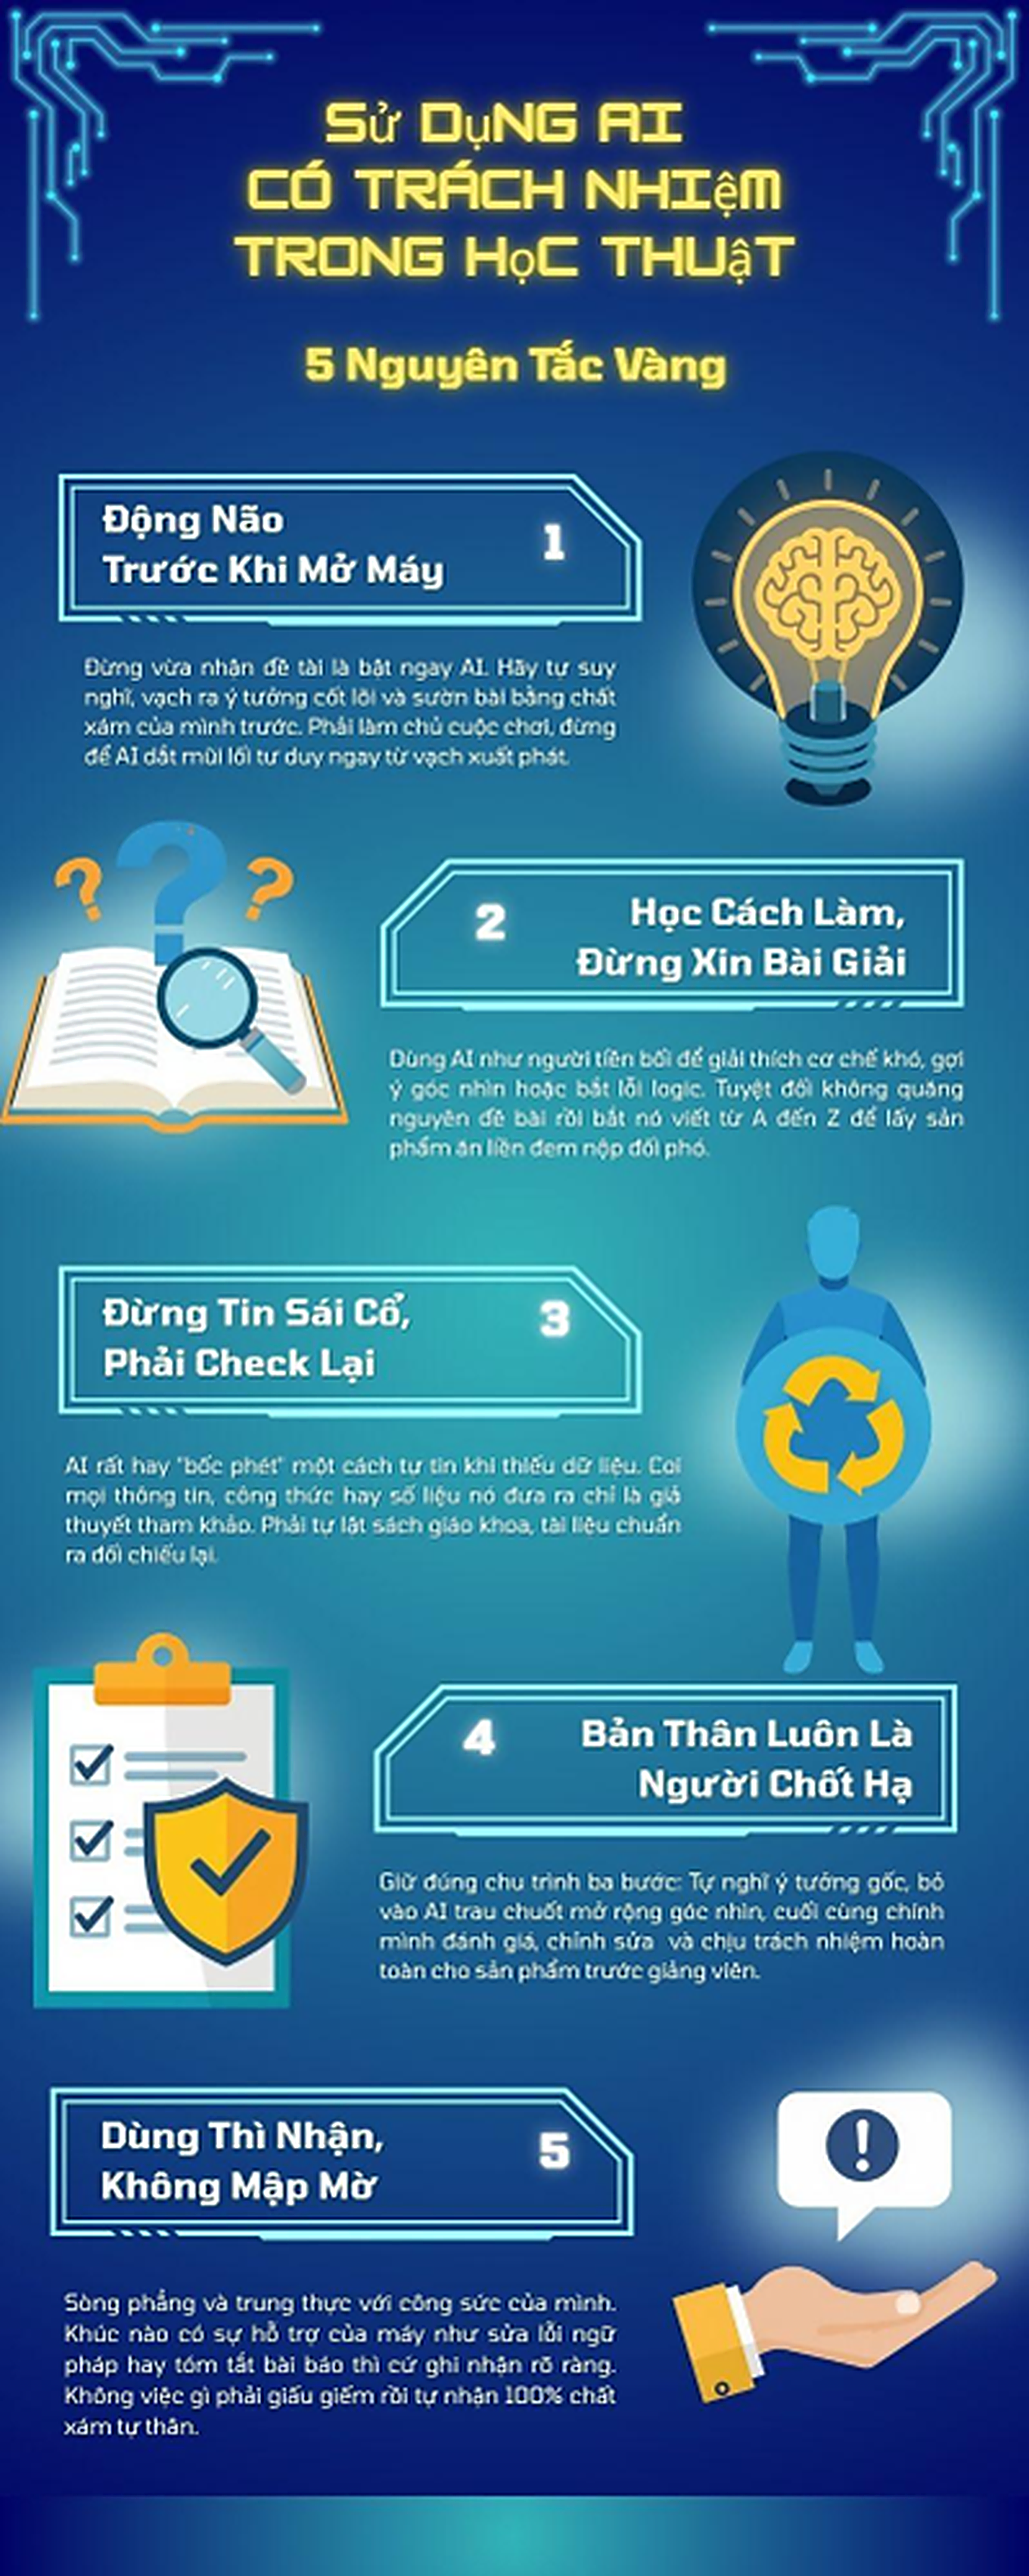
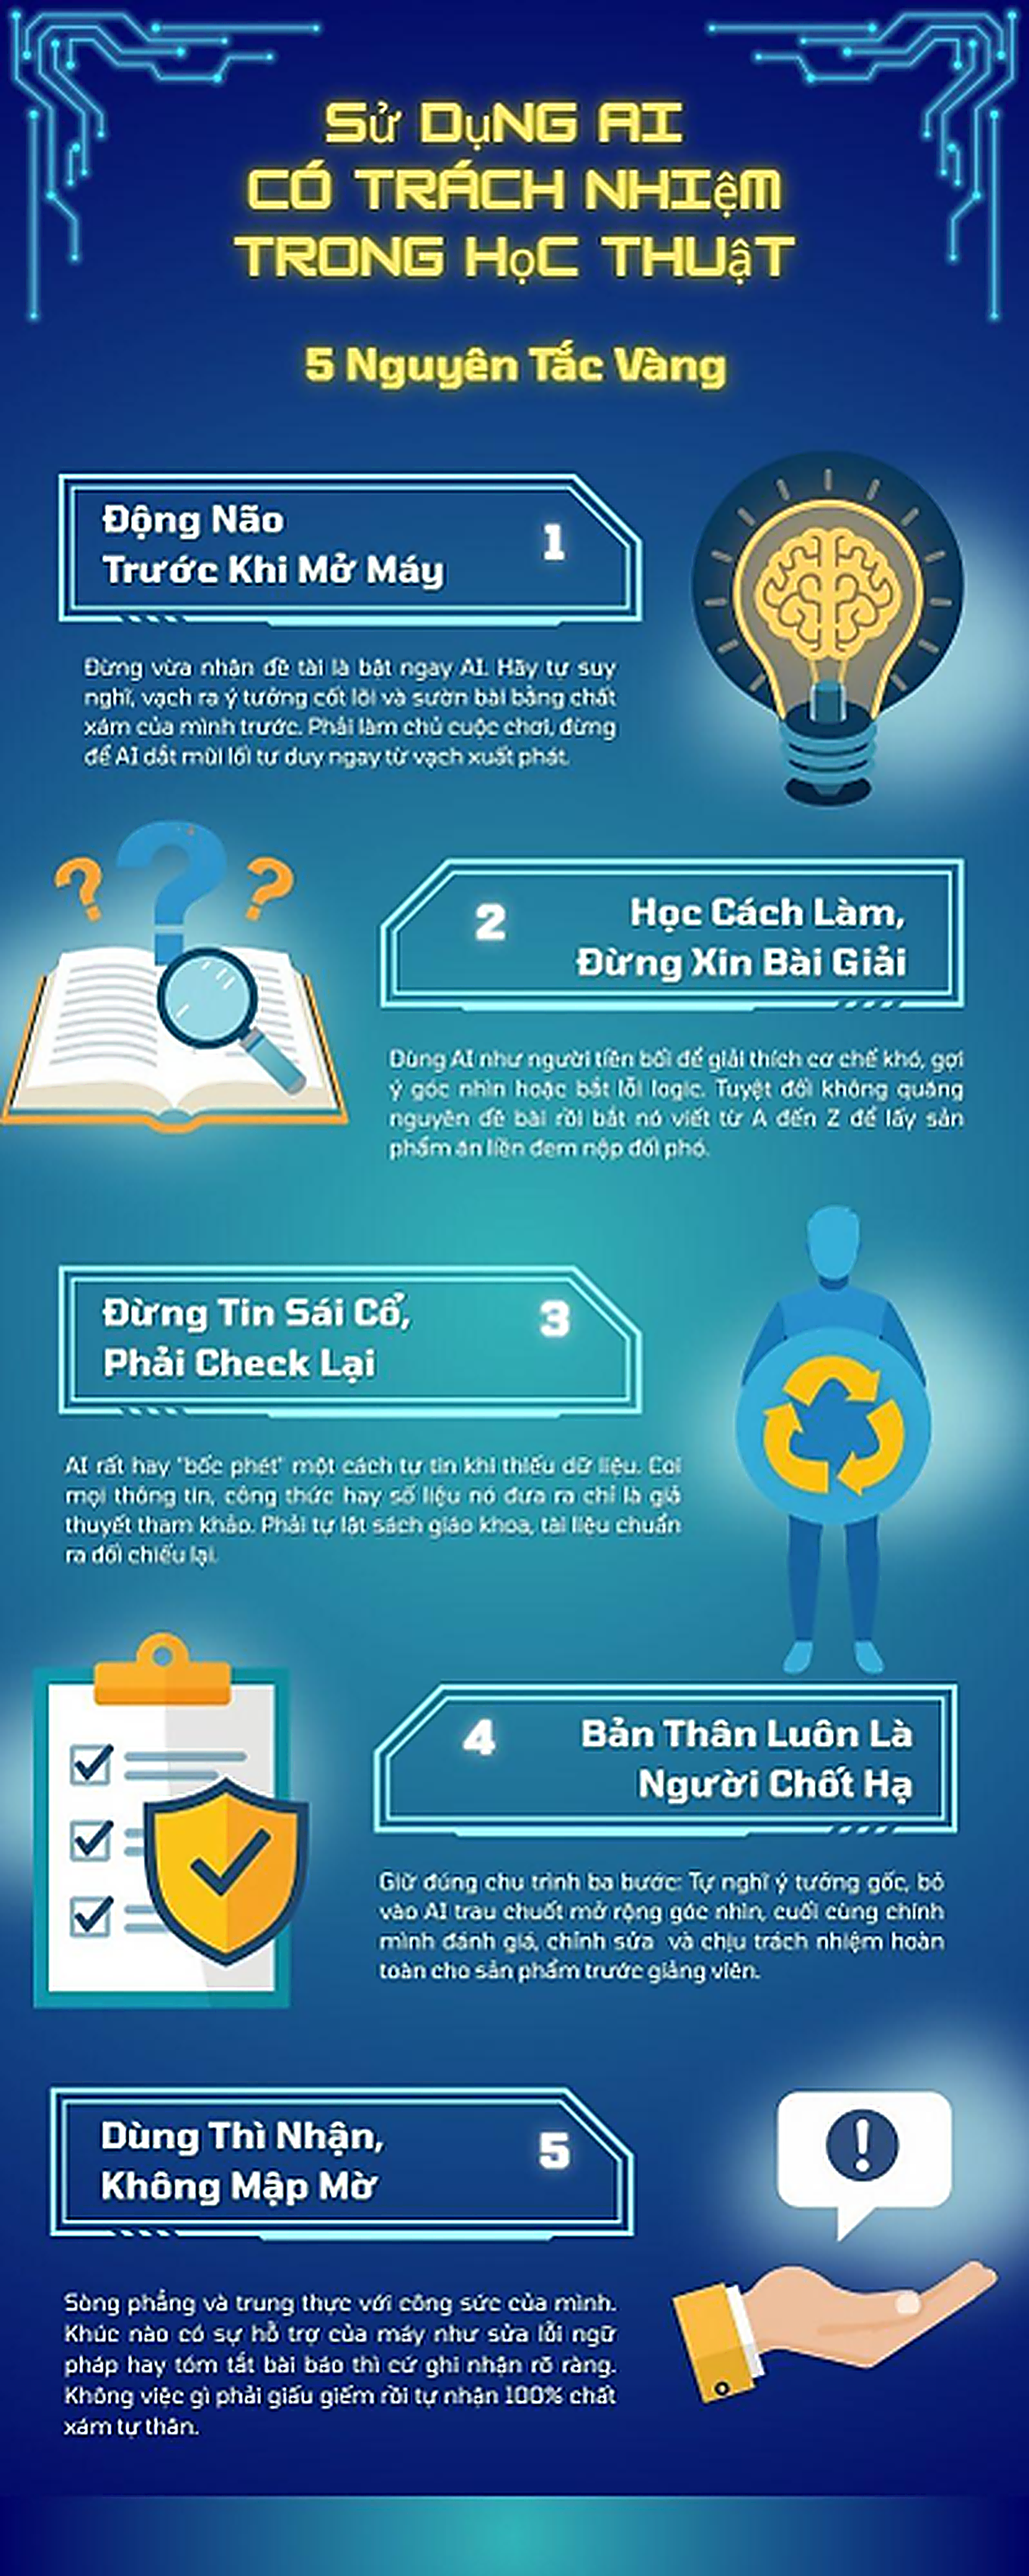
update

diff --git a/style.css b/style.css
@@ -820,6 +820,135 @@ body::before {
   font-size: 0.88rem;
 }
 
+/* Week 6 — ethics analysis */
+.ethics-pillar-grid {
+  display: grid;
+  grid-template-columns: repeat(auto-fit, minmax(240px, 1fr));
+  gap: 16px;
+  margin: 18px 0 8px;
+}
+
+.ethics-pillar-card {
+  background: rgba(255, 255, 255, 0.72);
+  border: 1px solid rgba(244, 160, 181, 0.28);
+  border-radius: var(--radius-md);
+  padding: 18px 20px;
+  box-shadow: var(--shadow-card);
+  transition: var(--transition);
+}
+
+.ethics-pillar-card:hover {
+  transform: translateY(-2px);
+  box-shadow: var(--shadow-soft);
+}
+
+.ethics-pillar-card h6 {
+  font-family: var(--font-heading);
+  font-size: 1rem;
+  color: var(--pink-deep);
+  margin-bottom: 8px;
+}
+
+.ethics-pillar-card p {
+  font-size: 0.9rem;
+  color: var(--plum);
+  line-height: 1.65;
+  margin: 0;
+}
+
+.ethics-compare {
+  display: grid;
+  grid-template-columns: 1fr 1fr;
+  gap: 14px;
+  margin: 16px 0 6px;
+}
+
+@media (max-width: 640px) {
+  .ethics-compare {
+    grid-template-columns: 1fr;
+  }
+}
+
+.ethics-compare-col {
+  border-radius: var(--radius-sm);
+  padding: 16px 18px;
+  border: 1px solid rgba(244, 160, 181, 0.25);
+}
+
+.ethics-compare-col--ok {
+  background: linear-gradient(135deg, rgba(244, 160, 181, 0.12), rgba(255, 248, 240, 0.9));
+  border-left: 4px solid var(--pink-primary);
+}
+
+.ethics-compare-col--bad {
+  background: linear-gradient(135deg, rgba(74, 44, 61, 0.06), rgba(255, 248, 240, 0.85));
+  border-left: 4px solid var(--plum);
+}
+
+.ethics-compare-col strong {
+  display: block;
+  font-family: var(--font-heading);
+  font-size: 0.95rem;
+  margin-bottom: 8px;
+  color: var(--plum);
+}
+
+.ethics-compare-col ul {
+  margin: 0 0 0 18px;
+  font-size: 0.88rem;
+  line-height: 1.65;
+  color: var(--plum);
+}
+
+.ethics-compare-col li {
+  margin-bottom: 6px;
+}
+
+.ethics-quote {
+  margin: 18px 0 4px;
+  padding: 18px 22px;
+  border-radius: var(--radius-md);
+  background: linear-gradient(120deg, rgba(244, 160, 181, 0.14), rgba(232, 213, 224, 0.35));
+  border: 1px dashed rgba(212, 117, 139, 0.45);
+  font-family: var(--font-heading);
+  font-style: italic;
+  font-size: 0.98rem;
+  line-height: 1.75;
+  color: var(--plum);
+  text-align: center;
+}
+
+.infographic-wrapper {
+  position: relative;
+  display: inline-block;
+  max-width: 100%;
+  border-radius: var(--radius-md);
+  overflow: hidden;
+  border: 4px solid var(--white);
+  box-shadow: var(--shadow-soft);
+  transition: var(--transition);
+}
+
+.infographic-wrapper:hover {
+  box-shadow: var(--shadow-hover);
+  transform: translateY(-2px);
+}
+
+.infographic-wrapper .infographic-image {
+  margin: 0;
+  border: none;
+  border-radius: 0;
+  box-shadow: none;
+  max-width: 760px;
+}
+
+.infographic-overlay {
+  position: absolute;
+  inset: 0;
+  background: linear-gradient(180deg, rgba(244, 160, 181, 0.05) 0%, rgba(74, 44, 61, 0.12) 100%);
+  pointer-events: none;
+}
+
 .flowchart-figure {
   margin: 14px 0 0;
 }

diff --git a/projects.html b/projects.html
@@ -1302,9 +1302,77 @@
         </div>
         <div class="project-card-body">
 
-          <!-- Topic 1: Bộ nguyên tắc cá nhân -->
+          <!-- Topic 1: Phân tích đạo đức (LMS mục 3) -->
           <div class="project-topic">
             <div class="topic-number">1</div>
+            <div class="topic-content">
+              <h4>Phân tích các vấn đề đạo đức khi sử dụng AI trong học thuật</h4>
+              <p>Ranh giới hỗ trợ hợp lý — gian lận, quyền sở hữu trí tuệ, tác động đến kỹ năng học tập và quan điểm cá nhân về AI trong giáo dục.</p>
+              <button class="topic-toggle" onclick="toggleDetail(this)">
+                Xem chi tiết
+                <svg viewBox="0 0 24 24"><path d="M7 10l5 5 5-5z"/></svg>
+              </button>
+              <div class="topic-detail">
+                <div class="topic-detail-content">
+
+                  <div class="ethics-compare">
+                    <div class="ethics-compare-col ethics-compare-col--ok">
+                      <strong>✓ Hỗ trợ hợp lệ</strong>
+                      <ul>
+                        <li>AI là trợ lý gợi ý ý tưởng, tối ưu cấu trúc bài viết</li>
+                        <li>Giải thích khái niệm phức tạp, sửa lỗi ngữ pháp</li>
+                        <li>Con người giữ quyền tư duy, kiểm chứng và chốt hạ</li>
+                      </ul>
+                    </div>
+                    <div class="ethics-compare-col ethics-compare-col--bad">
+                      <strong>✗ Gian lận học thuật</strong>
+                      <ul>
+                        <li>Ủy quyền hoàn toàn quyền tư duy cho máy tính</li>
+                        <li>Sao chép nguyên văn output AI rồi nộp như sản phẩm riêng</li>
+                        <li>Đạo văn vô hình — vượt bộ lọc đạo văn truyền thống</li>
+                      </ul>
+                    </div>
+                  </div>
+
+                  <h5>1. Ranh giới giữa hỗ trợ hợp lý và gian lận học thuật</h5>
+                  <p>Ranh giới giữa việc sử dụng trí tuệ nhân tạo làm công cụ hỗ trợ và hành vi gian lận học thuật hiện nay là một <strong>vùng xám</strong> vô cùng mong manh. Hỗ trợ hợp lý xảy ra khi người học tương tác với công nghệ như một người trợ lý để gợi mở ý tưởng, tối ưu hóa cấu trúc bài viết, giải thích các khái niệm phức tạp hoặc sửa lỗi ngữ pháp. Ở góc độ này, máy móc đóng vai trò thúc đẩy năng suất và kích thích tư duy.</p>
+                  <p>Ngược lại, hành vi gian lận bắt đầu khi người học ủy quyền hoàn toàn quyền tư duy cho máy tính. Việc sao chép nguyên văn các đoạn văn do công nghệ khởi tạo, sử dụng các thuật toán để tự động viết toàn bộ tiểu luận rồi nộp dưới danh nghĩa cá nhân chính là sự chiếm đoạt tri thức. Tính chất nguy hại của hình thức gian lận này nằm ở chỗ nó tạo ra <strong>sự đạo văn vô hình</strong>. Các mô hình ngôn ngữ lớn có khả năng diễn đạt mượt mà, dễ dàng vượt qua các bộ lọc kiểm tra đạo văn truyền thống, khiến việc đánh giá năng lực thực chất của người học trở nên bị sai lệch.</p>
+                  <p>Ranh giới đạo đức cốt lõi ở đây chính là <strong>sự minh bạch</strong> và <strong>mức độ đóng góp chất xám thực sự</strong> của con người vào sản phẩm học thuật.</p>
+
+                  <h5>2. Vấn đề về quyền sở hữu trí tuệ và trích dẫn</h5>
+                  <p>Sự xuất hiện của trí tuệ nhân tạo đang làm lung lay các nền tảng pháp lý và đạo đức của quyền sở hữu trí tuệ trong học thuật. Bản chất của các mô hình học sâu là được huấn luyện trên hàng tỷ dữ liệu từ các công trình nghiên cứu, bài báo và tác phẩm sáng tạo của con người mà không có sự đồng thuận hay đền bù thỏa đáng. Do đó, mọi đầu ra của máy tính thực chất là một sự tái tổ hợp xác suất dựa trên chất xám của nhân loại. Người học khi sử dụng các nội dung này vô tình trở thành mắt xích tiêu thụ các sản phẩm có nguồn gốc không rõ ràng về bản quyền.</p>
+                  <p>Thách thức về mặt trích dẫn trong nghiên cứu khoa học đang trở nên vô cùng nan giải. Các hệ thống quy chuẩn trích dẫn hiện đại dù đã cập nhật hướng dẫn cho công nghệ mới nhưng vẫn đối mặt với lỗ hổng lớn: <strong>máy tính không phải là một thực thể pháp lý</strong> có thể chịu trách nhiệm về tính chính xác của thông tin. Hơn nữa, các câu trả lời do thuật toán tạo ra thường có tính bất định — cùng một câu lệnh ở hai thời điểm khác nhau có thể cho ra hai kết quả khác nhau. Điều này triệt tiêu khả năng kiểm chứng nguồn gốc dữ liệu, một nguyên tắc tối thượng của tính khách quan và trung thực trong khoa học.</p>
+
+                  <h5>3. Tác động đến quá trình học tập và phát triển kỹ năng</h5>
+                  <div class="ethics-pillar-grid">
+                    <div class="ethics-pillar-card">
+                      <h6>Mặt tích cực</h6>
+                      <p>Công nghệ giúp cá nhân hóa lộ trình học tập, giải phóng người nghiên cứu khỏi các tác vụ lặp đi lặp lại để tập trung vào tư duy chiến lược.</p>
+                    </div>
+                    <div class="ethics-pillar-card">
+                      <h6>Mặt tiêu cực</h6>
+                      <p>Lạm dụng như lối tắt khiến não bộ không trải qua mâu thuẫn nhận thức — dễ nhầm lẫn khả năng truy cập thông tin nhanh với tri thức thực sự.</p>
+                    </div>
+                    <div class="ethics-pillar-card">
+                      <h6>Rủi ro dài hạn</h6>
+                      <p>Thoái hóa kỹ năng tư duy phản biện, làm thui chột khả năng viết độc lập và giải quyết vấn đề phức tạp khi không có thiết bị số.</p>
+                    </div>
+                  </div>
+                  <p>Về mặt tích cực, công nghệ giúp cá nhân hóa lộ trình học tập, giải phóng người nghiên cứu khỏi các tác vụ lặp đi lặp lại để tập trung vào tư duy chiến lược. Tuy nhiên, tác động tiêu cực đối với sự phát triển kỹ năng dài hạn lại đáng báo động nếu bị lạm dụng như một lối tắt. Quá trình học sâu đòi hỏi bộ não phải trải qua sự mâu thuẫn nhận thức, sự đấu tranh khi sắp xếp ngôn từ và nỗ lực thiết lập logic cho một lập luận chuyên môn. Khi các thuật toán làm thay phần việc khó khăn nhất này, người học sẽ rơi vào trạng thái ảo tưởng về năng lực.</p>
+
+                  <h5>4. Quan điểm cá nhân</h5>
+                  <p>Nhìn nhận ở mặt khác, trí tuệ nhân tạo không phải là mối đe dọa cho đạo đức học thuật, mà chính <strong>sự lười biếng trí tuệ</strong> và tư duy chạy theo thành tích của con người mới là nguyên nhân gây ra sự khủng hoảng. Công nghệ chỉ là một tấm gương phản chiếu mục đích của người sử dụng. Nếu tiếp cận học thuật chỉ để lấy một tấm bằng hay một bài báo danh nghĩa, công nghệ sẽ là công cụ gian lận hoàn hảo. Nhưng nếu coi học thuật là quá trình chuyển đổi nội tại của người học, công nghệ sẽ là bệ phóng vĩ đại.</p>
+                  <blockquote class="ethics-quote">
+                    Bản chất của giáo dục là phát triển con người chứ không phải tối ưu hóa tốc độ tạo ra văn bản. Giải pháp bền vững nằm ở bộ lọc đạo đức nghiêm túc kết hợp năng lực đặt câu lệnh có chiều sâu chuyên môn — dùng máy tính để thách thức giới hạn bản thân, không hạ tiêu chuẩn nhận thức xuống mức trung bình của một thuật toán xác suất.
+                  </blockquote>
+                </div>
+              </div>
+            </div>
+          </div>
+
+          <!-- Topic 2: Bộ nguyên tắc cá nhân -->
+          <div class="project-topic">
+            <div class="topic-number">2</div>
             <div class="topic-content">
               <h4>Bộ nguyên tắc cá nhân khi sử dụng AI</h4>
               <p style="margin-bottom: 18px;">5 nguyên tắc vàng giúp bản thân sử dụng AI một cách có trách nhiệm và hiệu quả trong suốt quá trình học tập và nghiên cứu khoa học:</p>
@@ -1338,23 +1406,23 @@
             </div>
           </div>
 
-          <!-- Topic 2: Infographic -->
+          <!-- Topic 3: Infographic -->
           <div class="project-topic" style="border-bottom: none; padding-bottom: 0;">
-            <div class="topic-number">2</div>
+            <div class="topic-number">3</div>
             <div class="topic-content">
               <h4>Infographic: Sử dụng AI có trách nhiệm trong học thuật</h4>
-              <p style="margin-bottom: 20px;">Infographic minh hoạ trực quan các nguyên tắc đạo đức liêm chính học thuật, phòng tránh đạo văn vô hình và kiểm chứng thông tin khi làm việc với AI.</p>
-              
-              <div style="text-align: center;">
-                <div class="infographic-wrapper" style="position: relative; display: inline-block; max-width: 100%; border-radius: var(--radius-md); overflow: hidden; border: 4px solid var(--white); box-shadow: var(--shadow-soft); transition: all 0.4s cubic-bezier(0.165, 0.84, 0.44, 1);">
-                  <img class="infographic-image" src="image.png" alt="Infographic: Sử dụng AI có trách nhiệm trong học thuật" style="display: block; width: 100%; max-width: 760px; height: auto; margin: 0; border: none; border-radius: 0; box-shadow: none;">
-                  <div class="infographic-overlay" style="position: absolute; top: 0; left: 0; width: 100%; height: 100%; background: linear-gradient(180deg, rgba(244, 160, 181, 0.05) 0%, rgba(74, 44, 61, 0.15) 100%); pointer-events: none;"></div>
+              <p style="margin-bottom: 12px;">Infographic minh hoạ trực quan các nguyên tắc đạo đức liêm chính học thuật, phòng tránh đạo văn vô hình và kiểm chứng thông tin khi làm việc với AI.</p>
+              <p style="font-size: 0.88rem; color: var(--muted-rose); margin-bottom: 20px;"><strong>Mục đích:</strong> Nâng cao nhận thức về sử dụng AI có trách nhiệm — đạo đức học thuật, kiểm chứng thông tin, bản quyền và nguy cơ phụ thuộc vào AI.</p>
+
+              <figure class="infographic-figure" style="text-align: center;">
+                <div class="infographic-wrapper">
+                  <img class="infographic-image" src="image.png" alt="Infographic: Sử dụng AI có trách nhiệm trong học thuật" loading="lazy" decoding="async">
+                  <div class="infographic-overlay" aria-hidden="true"></div>
                 </div>
-                
-                <figcaption class="infographic-caption" style="margin-top: 14px; color: var(--muted-rose); font-style: italic; font-size: 0.88rem;">
-                  🎀 Infographic minh hoạ — nhấn mạnh tính minh bạch, sự liêm chính và tư duy phản biện.
+                <figcaption class="infographic-caption" style="margin-top: 14px;">
+                  Infographic — Sử dụng AI có trách nhiệm trong học thuật (minh bạch, liêm chính, tư duy phản biện).
                 </figcaption>
-              </div>
+              </figure>
             </div>
           </div>
 

diff --git a/scripts/extract_lms_week6.py b/scripts/extract_lms_week6.py
@@ -1,0 +1,65 @@
+# -*- coding: utf-8 -*-
+import re
+import sys
+import zipfile
+from pathlib import Path
+
+sys.stdout.reconfigure(encoding="utf-8")
+
+ROOT = Path(__file__).resolve().parents[1]
+docx = ROOT / "LMS.docx"
+out_dir = ROOT / "assets" / "week6"
+out_dir.mkdir(parents=True, exist_ok=True)
+
+z = zipfile.ZipFile(docx)
+doc = z.read("word/document.xml").decode("utf-8")
+rels = z.read("word/_rels/document.xml.rels").decode("utf-8")
+rid_to_target = dict(re.findall(r'Id="(rId\d+)"[^>]*Target="([^"]+)"', rels))
+
+body = re.findall(
+    r"(<w:p[^>]*>.*?</w:p>|<w:drawing>.*?</w:drawing>)", doc, re.DOTALL
+)
+in_week6 = False
+in_section3 = False
+section3_images = []
+
+for block in body:
+    text = " ".join(re.findall(r"<w:t[^>]*>([^<]*)</w:t>", block)).lower()
+    if "tuần 6" in text or "tuan 6" in text:
+        in_week6 = True
+    if in_week6 and ("tuần 7" in text or "tuan 7" in text):
+        break
+    if in_week6 and "3. phân tích các vấn đề đạo đức" in text:
+        in_section3 = True
+    if in_section3 and "4. bộ nguyên tắc" in text:
+        in_section3 = False
+
+    for rid in re.findall(r'r:embed="(rId\d+)"', block):
+        if not in_section3:
+            continue
+        target = rid_to_target.get(rid, "")
+        if "media/" not in target:
+            continue
+        media_path = target.replace("../", "")
+        data = z.read("word/" + media_path)
+        ext = Path(target).suffix or ".png"
+        name = f"ethics-{len(section3_images) + 1}{ext}"
+        (out_dir / name).write_bytes(data)
+        section3_images.append(name)
+        print("saved", name, len(data))
+
+print("count", len(section3_images))
+
+# Week 6 all images
+in_week6 = False
+all_imgs = []
+for block in body:
+    text = " ".join(re.findall(r"<w:t[^>]*>([^<]*)</w:t>", block)).lower()
+    if "tuần 6" in text:
+        in_week6 = True
+    if in_week6 and "tuần 7" in text:
+        break
+    for rid in re.findall(r'r:embed="(rId\d+)"', block):
+        if in_week6:
+            all_imgs.append(rid_to_target.get(rid, ""))
+print("week6 images", all_imgs)

diff --git a/scripts/sharpen_images.py b/scripts/sharpen_images.py
@@ -36,6 +36,7 @@ def main() -> None:
         "image.png",
         "assets/week2/*.png",
         "assets/week5/*.png",
+        "assets/week6/*.*",
     ]
     files: list[Path] = []
     for pat in patterns: